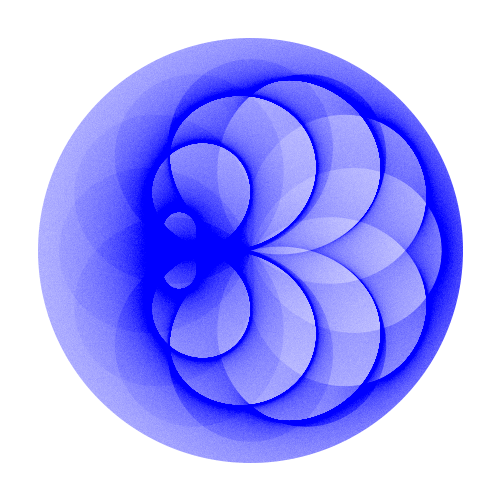
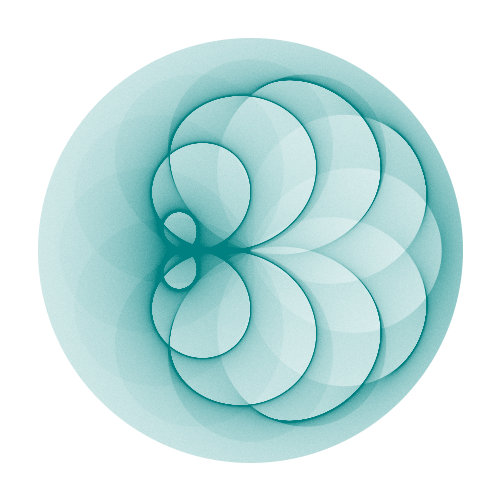
update code examples

diff --git a/code_example/genImage_01.py b/code_example/genImage_01.py
@@ -44,7 +44,7 @@ def makeImage(height, width, imageName, numSamples):
 if __name__ == "__main__":
     imageName = getImageName(__file__)
     
-    for numSamples in (1000000, 100000000):
+    for numSamples in (100000, 100000000):
         width = IMAGE_WIDTH_IN * DPI
         height = IMAGE_HEIGHT_IN * DPI
         makeImage(height, width, re.sub("image", f"image_{numSamples}", imageName), numSamples)

diff --git a/code_example/genImage_03.py b/code_example/genImage_03.py
@@ -70,7 +70,7 @@ def makeImage(height, width, imageName):
 
     data = runDataCalculations(imageWidth, imageHeight, numSamples, kA, kB)
         
-    saveImage(data, imageName, imageWidth, imageHeight)
+    saveImage(data, imageName, imageWidth, imageHeight, fg=[0, 128, 128])
     
 if __name__ == "__main__":
     imageName = getImageName(__file__)

diff --git a/code_example/genImage_06.py b/code_example/genImage_06.py
@@ -39,7 +39,8 @@ def makeImage(height, width, imageName):
         
         data[j * imageWidth + i] += 1
         
-    saveImage(data, imageName, imageWidth, imageHeight)
+    saveImage(data, imageName, imageWidth, imageHeight,
+                fg=[0, 128, 128], alphaMultiplier=6)
     
 
 if __name__ == "__main__":

diff --git a/code_example/genImage_05.py b/code_example/genImage_05.py
@@ -37,7 +37,8 @@ def makeImage(height, width, imageName):
         
         data[j * imageWidth + i] += 1
         
-    saveImage(data, imageName, imageWidth, imageHeight)
+    saveImage(data, imageName, imageWidth, imageHeight,
+                fg=[0, 62, 25], alphaMultiplier=6)
     
 
 if __name__ == "__main__":

diff --git a/code_example/genImage_04.py b/code_example/genImage_04.py
@@ -37,7 +37,8 @@ def makeImage(height, width, imageName):
         
         data[j * imageWidth + i] += 1
         
-    saveImage(data, imageName, imageWidth, imageHeight)
+    saveImage(data, imageName, imageWidth, imageHeight,
+                fg=[128, 0, 64])
     
 
 if __name__ == "__main__":

diff --git a/code_example/genImage_02_A.py b/code_example/genImage_02_A.py
@@ -37,7 +37,8 @@ def makeImage(height, width, imageName):
         
         data[j * imageWidth + i] += 1
         
-    saveImage(data, imageName, imageWidth, imageHeight)
+    saveImage(data, imageName, imageWidth, imageHeight,
+                fg=[255, 0, 0])
     
 
 if __name__ == "__main__":

diff --git a/code_example/genImage_02_B.py b/code_example/genImage_02_B.py
@@ -38,7 +38,8 @@ def makeImage(height, width, imageName):
         
         data[j * imageWidth + i] += 1
         
-    saveImage(data, imageName, imageWidth, imageHeight)
+    saveImage(data, imageName, imageWidth, imageHeight,
+                fg=[255, 0, 0])
     
 
 if __name__ == "__main__":
